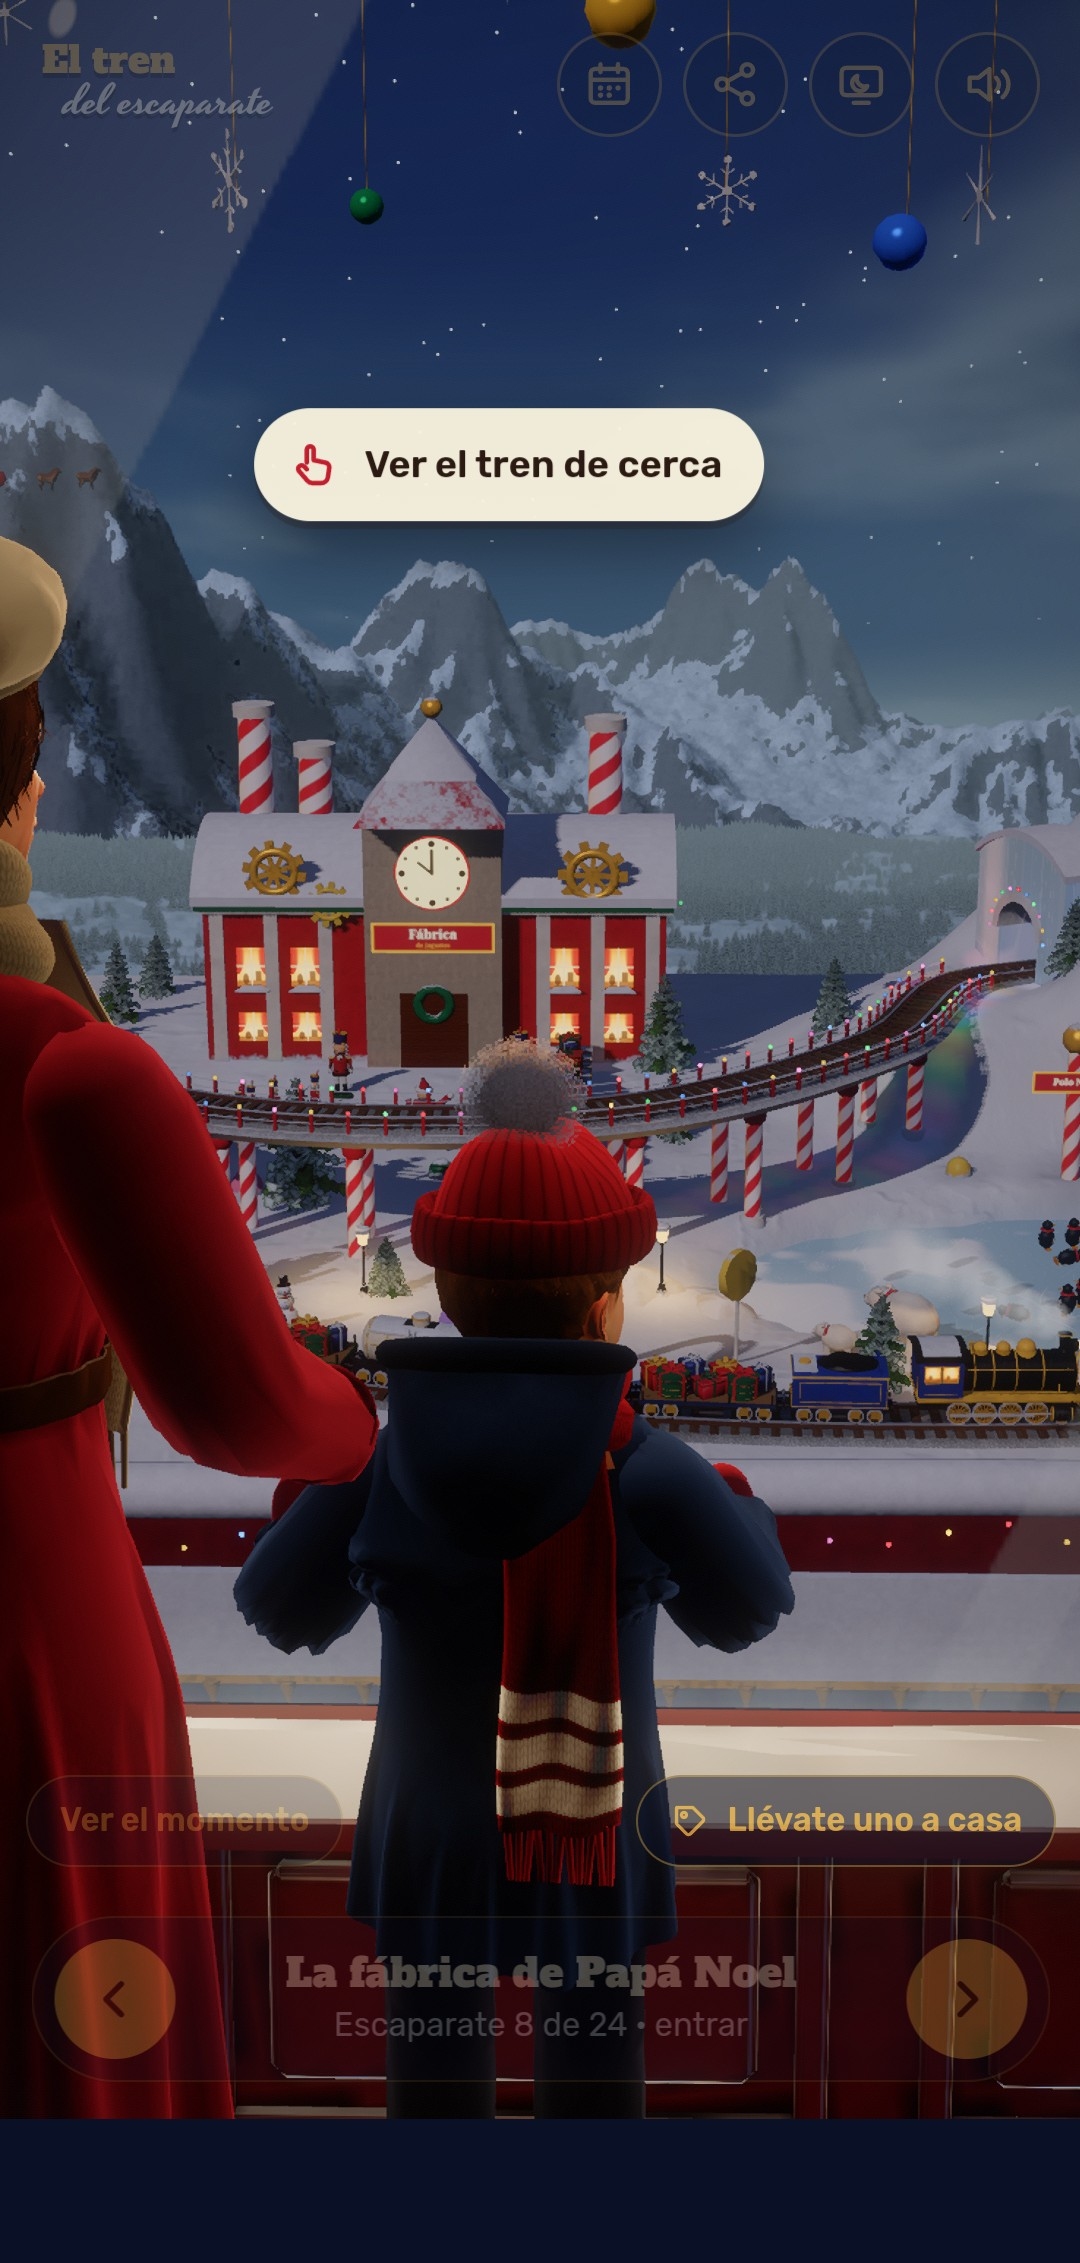
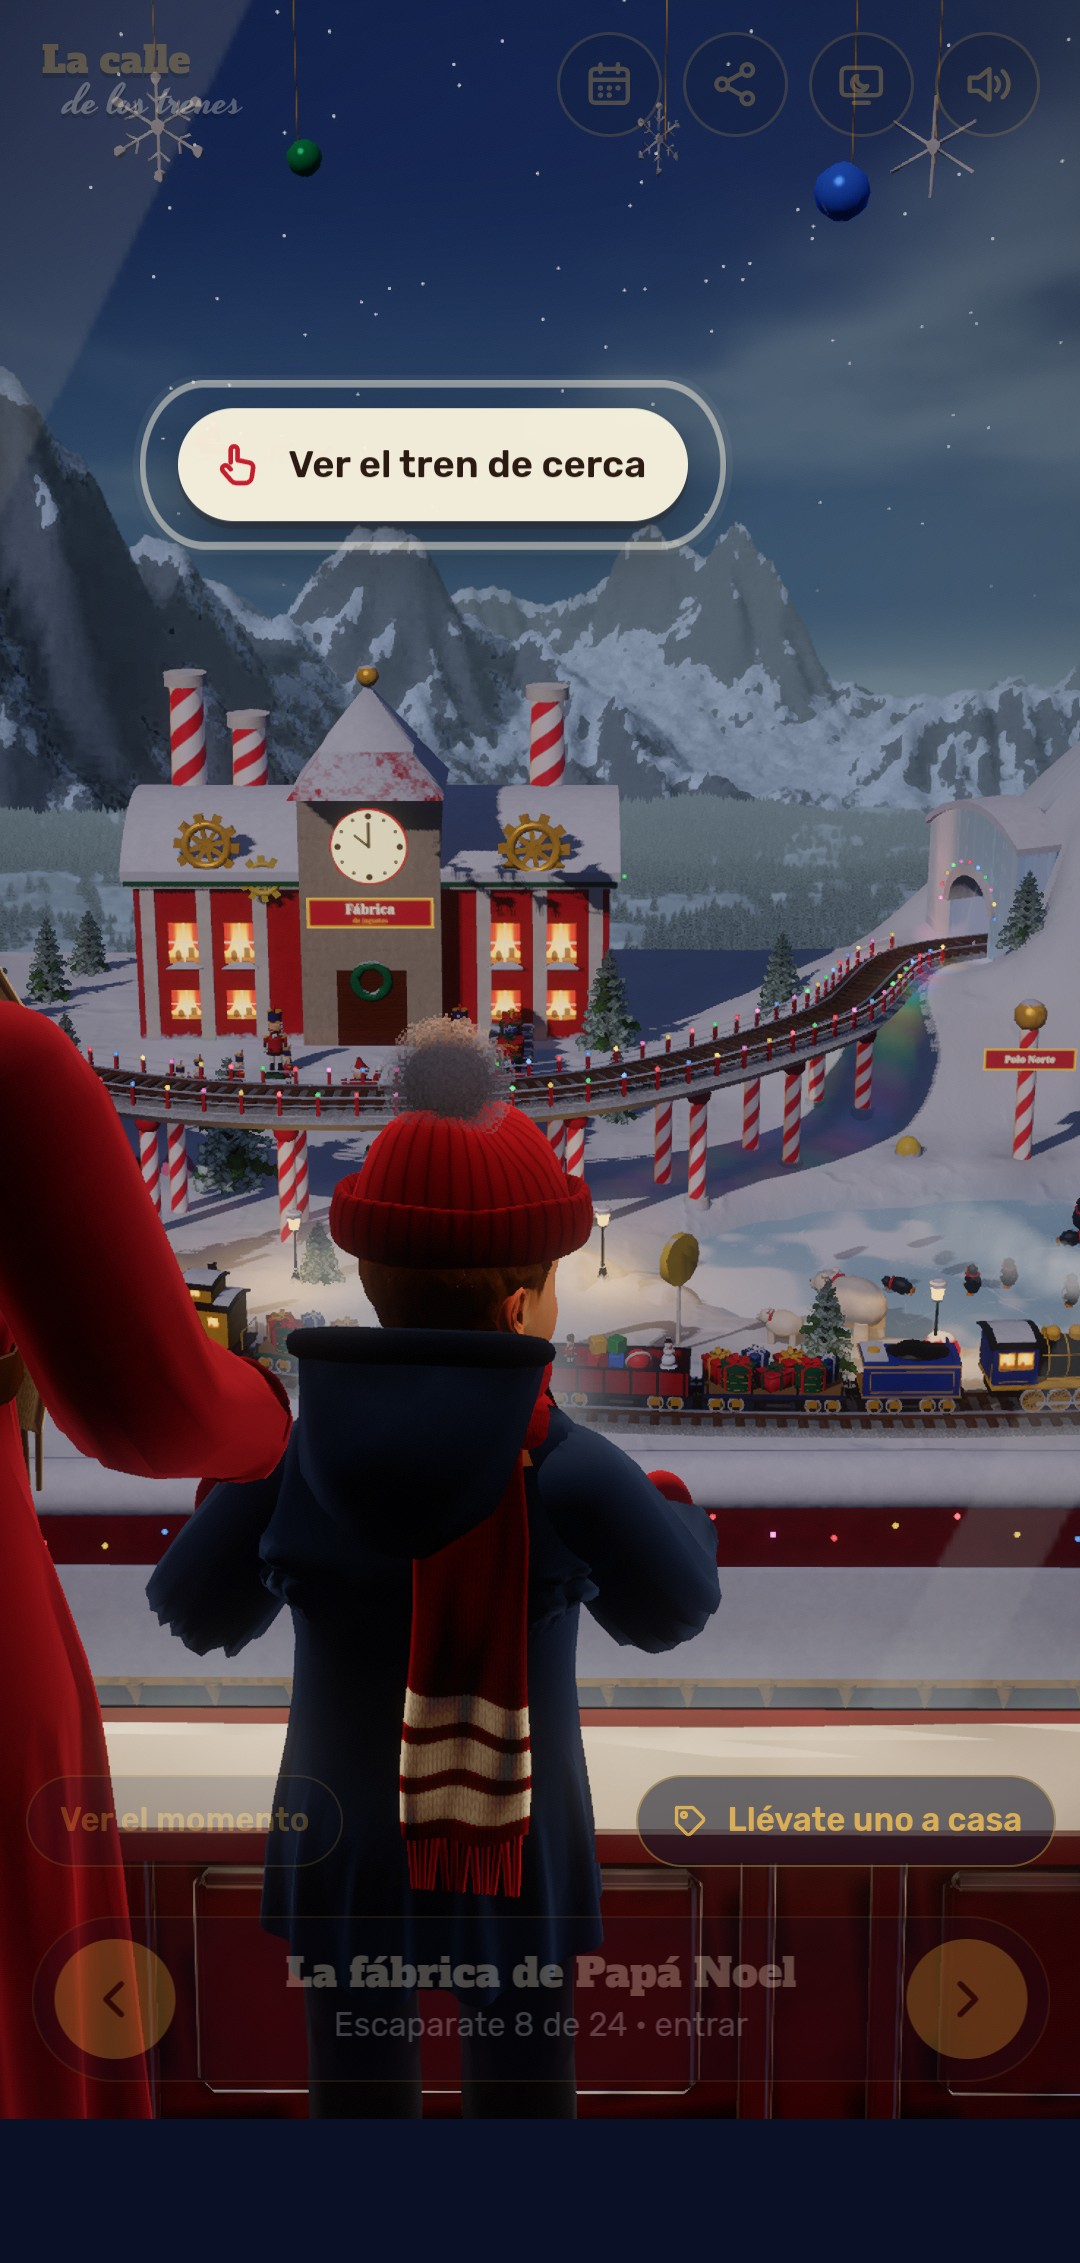
Nombre nuevo: La calle de los trenes
Título, rótulo, etiquetas para compartir e imagen de WhatsApp con el nombre que
eligió Jon. «Trenes de Navidad» va en la descripción y en la frase al compartir.
Capturas de la web personal rehechas con el título nuevo.

Pruebas: esc.py 92/92, esc.test.mjs OK; portada revisada en el emulador Android.

diff --git a/src/escaparates.js b/src/escaparates.js
@@ -1,4 +1,4 @@
-/* El tren del escaparate: un calendario de Adviento. Un niño pasea de la mano de su madre por una calle nevada y se para a
+/* La calle de los trenes: un calendario de Adviento. Un niño pasea de la mano de su madre por una calle nevada y se para a
    mirar los trenes de los escaparates: uno por día, y en cada uno una escena de la historia (esc-escenas.js). El paseo va solo y la cámara va detrás del niño. Al pinchar un escaparate se entra en él y se recorre con la
    cámara de mapa (esc-vista.js). Dos escenas con la misma cámara: la calle y lo que hay dentro de los escaparates, con su
    propia luz (ahí van también el cristal y la nieve que cae). Sin servidor: las marcas salen de esc-marcas.js. */
@@ -298,7 +298,7 @@ function escena(id) {hideCard(); E.st = 'escena'; E.t = 0; E.manual = false; E.a
 /* volver a ver la escena de un escaparate ya abierto */
 function verEscena(n = E.n) {if (E.st !== 'mira' || n >= AB()) return; dip(() => {E.dir = 1; madre.g.position.set(WX(n) - 46, 0, ZM); nino.g.position.set(WX(n) - 31, 0, ZN); madre.yaw = nino.yaw = 0; detras(tG, cam.p, cam.l); escena(n + 1)})}
 $('bSaltar').onclick = () => dip(() => ESCN.fin()); $('bEsc').onclick = () => {au(); verEscena()};
-$('finX').onclick = () => $('fin').classList.remove('on'); $('finGo').onclick = async () => {const text = 'Acuérdate de cuando íbamos a ver los escaparates. Te llamo ahora.'; if (navigator.share) try {await navigator.share({title: 'El tren del escaparate', text, url: url()}); return} catch (e) {if (e && e.name === 'AbortError') return} try {await navigator.clipboard.writeText(`${text} ${url()}`); toast('Enlace copiado: mándaselo')} catch (e) {toast('No se ha podido copiar el enlace')}};
+$('finX').onclick = () => $('fin').classList.remove('on'); $('finGo').onclick = async () => {const text = 'Acuérdate de cuando íbamos a ver los escaparates. Te llamo ahora.'; if (navigator.share) try {await navigator.share({title: 'La calle de los trenes', text, url: url()}); return} catch (e) {if (e && e.name === 'AbortError') return} try {await navigator.clipboard.writeText(`${text} ${url()}`); toast('Enlace copiado: mándaselo')} catch (e) {toast('No se ha podido copiar el enlace')}};
 
 /* ================= entrar en un escaparate ================= */
 let dipT = 0; function dip(fn, ms = 210) {if (FAST) {fn(); return} const el = $('dip'); el.classList.add('on'); clearTimeout(dipT); dipT = setTimeout(() => {fn(); requestAnimationFrame(() => requestAnimationFrame(() => el.classList.remove('on')))}, ms)}
@@ -473,7 +473,7 @@ function escucha() {
   oO.T = m.T; oO.s = m.tren.s; oO.w = m.tren.w; oO.off = m.tren.off; oO.clase = m.tren.clase; oO.nivel = nv; if (st === 'dentro') {oI.copy(m.g.matrixWorld).invert(); oV.copy(camera.position).applyMatrix4(oI); oO.c[0] = oV.x; oO.c[1] = oV.y; oO.c[2] = oV.z; const e = camera.matrixWorld.elements; oO.d[0] = e[0]; oO.d[1] = e[2]} else {oO.c[0] = 0; oO.c[1] = 14; oO.c[2] = 56; oO.d[0] = 1; oO.d[1] = 0} oyeTren(oO);
 }
 const url = () => window.ADVX_ESC_URL || location.origin + location.pathname;
-$('bShare').onclick = async () => {const m = AB() ? `🚂 Día ${AB()} · «${DIAS[AB() - 1].momento}»\n` : '🚂 ', text = `${m}¿Te acuerdas de cuando te quedabas embobado mirando el tren de un escaparate?`; if (navigator.share) try {await navigator.share({title: 'El tren del escaparate', text, url: url()}); return} catch (e) {if (e && e.name === 'AbortError') return} try {await navigator.clipboard.writeText(url()); toast('Enlace copiado: pégalo donde quieras')} catch (e) {toast('No se ha podido copiar el enlace')}};
+$('bShare').onclick = async () => {const m = AB() ? `🚂 Día ${AB()} · «${DIAS[AB() - 1].momento}»\n` : '🚂 ', text = `${m}¿Te acuerdas de cuando te quedabas embobado mirando los trenes de Navidad de los escaparates?`; if (navigator.share) try {await navigator.share({title: 'La calle de los trenes', text, url: url()}); return} catch (e) {if (e && e.name === 'AbortError') return} try {await navigator.clipboard.writeText(url()); toast('Enlace copiado: pégalo donde quieras')} catch (e) {toast('No se ha podido copiar el enlace')}};
 const NAVK = {ArrowLeft: [-34, 0], ArrowRight: [34, 0], ArrowUp: [0, -34], ArrowDown: [0, 34], a: [-34, 0], d: [34, 0], w: [0, -34], s: [0, 34]};
 addEventListener('keydown', e => {
   if (E.st === 'escena') {if (e.key === 'Escape') $('bSaltar').click(); return}

diff --git a/escaparates.html b/escaparates.html
@@ -3,14 +3,14 @@
 <head>
 <meta charset="utf-8">
 <meta name="viewport" content="width=device-width,initial-scale=1,viewport-fit=cover">
-<title>El tren del escaparate</title>
-<meta name="description" content="Un niño pasea de la mano de su madre por una calle nevada y se queda embobado mirando los trenes de los escaparates. Acércate al cristal.">
+<title>La calle de los trenes</title>
+<meta name="description" content="Trenes de Navidad en los escaparates de una calle nevada: cada tarde de diciembre se enciende uno nuevo. Un niño pasea de la mano de su madre y se queda embobado mirándolos. Acércate al cristal.">
 <meta name="theme-color" content="#0a1026">
 <meta property="og:type" content="website">
 <meta property="og:locale" content="es_ES">
-<meta property="og:site_name" content="El tren del escaparate">
-<meta property="og:title" content="El tren del escaparate">
-<meta property="og:description" content="¿Te acuerdas de cuando te quedabas embobado mirando pasar el tren detrás de un cristal? Cada tarde de diciembre se enciende un escaparate nuevo.">
+<meta property="og:site_name" content="La calle de los trenes">
+<meta property="og:title" content="La calle de los trenes">
+<meta property="og:description" content="Trenes de Navidad en los escaparates: cada tarde de diciembre se enciende uno nuevo. ¿Te acuerdas de cuando te quedabas embobado mirándolos?">
 <meta property="og:url" content="">
 <meta property="og:image" content="og-escaparates.jpg">
 <meta property="og:image:width" content="1200">
@@ -33,7 +33,7 @@
 <p id="texto" role="status"></p>
 
 <header class="top hud">
-  <div class="brand">El tren <span>del escaparate</span></div>
+  <div class="brand">La calle <span>de los trenes</span></div>
   <div class="tools">
     <button class="tb" id="bDias" aria-label="Calendario" aria-haspopup="dialog" aria-controls="diSheet" title="Calendario (L)"><svg viewBox="0 0 24 24" aria-hidden="true"><rect x="3.5" y="5" width="17" height="15.5" rx="2"/><path d="M3.5 10h17M8 2.8v3.7M16 2.8v3.7"/><path class="pt" d="M8 13.7h.01M12 13.7h.01M16 13.7h.01M8 17h.01M12 17h.01"/></svg></button>
     <button class="tb" id="bShare" aria-label="Compartir" title="Compartir"><svg viewBox="0 0 24 24" aria-hidden="true"><circle cx="6" cy="12" r="2.6"/><circle cx="17.5" cy="5.5" r="2.6"/><circle cx="17.5" cy="18.5" r="2.6"/><path d="M8.3 10.7l6.900-3.900M8.300 13.300l6.900 3.900"/></svg></button>
@@ -98,7 +98,7 @@
     <h2 id="adTtl">Tu marca en el escaparate</h2>
     <div class="seg" role="tablist" aria-label="Dónde">
       <button type="button" role="tab" id="tabRot" aria-selected="true">El rótulo<small>el letrero de la tienda</small></button>
-      <button type="button" role="tab" id="tabVag" aria-selected="false">Un vagón<small>del tren del escaparate</small></button>
+      <button type="button" role="tab" id="tabVag" aria-selected="false">Un vagón<small>del tren de un escaparate</small></button>
     </div>
     <p class="lead" id="adLead"></p>
     <canvas id="adPrev" width="1024" height="352" role="img" aria-label="Vista previa"></canvas>
@@ -147,7 +147,7 @@
 
 <section id="intro" class="intro" aria-labelledby="iTtl">
   <div class="in">
-    <h1 id="iTtl">El tren <span>del escaparate</span></h1>
+    <h1 id="iTtl">La calle <span>de los trenes</span></h1>
     <p>¿Te acuerdas de cuando te quedabas embobado <br>mirando pasar el tren detrás de un cristal?</p>
     <button id="go" class="mano" type="button" disabled>Preparando la calle…</button>
     <button id="iTodos" type="button">Modo pruebas: ver todos los días</button>

diff --git a/src/escaparates.css b/src/escaparates.css
@@ -1,4 +1,4 @@
-/* El tren del escaparate: interfaz mínima sobre la calle nevada. Misma paleta que el resto (papel crema, rojo, oro). */
+/* La calle de los trenes: interfaz mínima sobre la calle nevada. Misma paleta que el resto (papel crema, rojo, oro). */
 :root{color-scheme:dark;--night:#0a1026;--paper:#f1e6cc;--ink:#2b1a12;--ink2:#6d5642;--cream:#fbf3df;--red:#c41e2e;--red2:#8e1220;--green:#1b5a40;--gold:#e0ad45;--gold2:#a8771f;
   --ease-out:cubic-bezier(.23,1,.32,1);--safe-t:env(safe-area-inset-top,0px);--safe-b:env(safe-area-inset-bottom,0px)}
 *{box-sizing:border-box;min-width:0}

diff --git a/scripts/clips.py b/scripts/clips.py
@@ -60,7 +60,7 @@ async def main():
         b = await p.chromium.launch(args=chromium_args(True)); ctx = await b.new_context(viewport={'width': 540, 'height': 960}, device_scale_factor=2); pg = await ctx.new_page()
         await pg.goto(f'http://127.0.0.1:8840/escaparates.html?dia={DIAS[0]}', wait_until='commit'); await pg.wait_for_function('window.__esc&&__esc.listo', timeout=120000)
         await pg.add_style_tag(content=CSS)
-        await pg.evaluate("window.__noAdapt=true;document.body.insertAdjacentHTML('beforeend','<div id=rot></div><div id=cie><div><b>El tren</b><i>del escaparate</i><span></span></div></div>');__esc.empezar();__esc.hold(true)")
+        await pg.evaluate("window.__noAdapt=true;document.body.insertAdjacentHTML('beforeend','<div id=rot></div><div id=cie><div><b>La calle</b><i>de los trenes</i><span></span></div></div>');__esc.empezar();__esc.hold(true)")
         for k, d in enumerate(DIAS):
             await pg.evaluate(f'__esc.ponDia({d})'); await pg.wait_for_timeout(1400)
             await pg.evaluate("(()=>{for(let i=0;i<600&&__esc.st==='paseo'&&Math.abs(__esc.E.x-__esc.n*340)>80;i++)__esc.step(1/30)})()")

diff --git a/README.md b/README.md
@@ -36,9 +36,9 @@ El **silbato** acelera el tren unos segundos. Si cierras la página, al volver r
 
 La partida se guarda en `localStorage` (`advx-idle`). La economía está en `src/idle-eco.js`, y `node tests/idle-balance.mjs` simula a un jugador para ver el ritmo.
 
-## El tren del escaparate (`escaparates.html`)
+## La calle de los trenes (`escaparates.html`)
 
-`http://localhost:5173/escaparates.html` es el enfoque actual: un **calendario de Adviento** sin servidor ni base de datos (el nombre es provisional). Un niño pasea de la mano de su madre por una calle nevada de **24 escaparates, uno por día**, con un circuito de tren distinto en cada uno.
+`http://localhost:5173/escaparates.html` es el enfoque actual: un **calendario de Adviento** sin servidor ni base de datos. Un niño pasea de la mano de su madre por una calle nevada de **24 escaparates, uno por día**, con un circuito de tren distinto en cada uno.
 
 - **Cada día a las 18:00 se enciende uno.** Los que faltan están tapados con papel de embalar y su fecha; el de mañana tiene un agujero para asomarse. Los ya encendidos se quedan abiertos hasta el 10 de enero: puedes volver a cualquiera, entrar en su circuito y repetir su escena. El botón del calendario (o la tecla L) te lleva directo al que elijas.
 - **Un momento cada día**: en cada escaparate, una escena sin palabras de 6–15 segundos que se entiende sola (la nariz en el cristal, una bola de nieve, la foto que sale mal…). El 24 se cierra con el niño ya mayor. Están en `src/esc-escenas.js`.
@@ -118,7 +118,7 @@ Cómo funciona: el navegador lee `runs` directamente (solo columnas públicas) y
 
 La web sigue siendo estática. `scripts/build.mjs` solo copia los archivos a `dist/` y genera `dist/config.js` con las variables de entorno. `vercel.json` ya lo configura todo: build, carpeta de salida y caché de `m/` una semana.
 
-Publicada en https://tren-navidad.vercel.app/. Al desplegar, la portada es **el tren del escaparate** (`escaparates.html` se copia como `index.html`, y `/escaparates.html` redirige a `/`) y el juego de carreras pasa a `/adviento.html`. En local todo sigue con sus nombres de siempre.
+Publicada en https://tren-navidad.vercel.app/. Al desplegar, la portada es **La calle de los trenes** (`escaparates.html` se copia como `index.html`, y `/escaparates.html` redirige a `/`) y el juego de carreras pasa a `/adviento.html`. En local todo sigue con sus nombres de siempre.
 
 1. En [vercel.com](https://vercel.com), *Add New → Project* e importa `jonmunoa/Advent-train` (framework: *Other*; el resto lo lee de `vercel.json`).
 2. *Settings → Environment Variables* (Production y Preview):

diff --git a/CLAUDE.md b/CLAUDE.md
@@ -48,7 +48,7 @@ src/tren-map.js            maqueta alpina sin DOM: relieve (H0), etapas de vía 
 src/tren-eco.js            calendario (qué trae cada día), agujas, marcas y partida, sin DOM ni red
 src/tren-marcas.js         lo que Jon edita a mano: contacto, precios y qué marca va en qué vagón y qué días
 src/tren.css               estilos propios del tren de Navidad (se carga tras idle.css)
-escaparates.html, src/escaparates.js   «el tren del escaparate» (nombre provisional): calendario, calle, paseo, cámara, HUD y marcas
+escaparates.html, src/escaparates.js   «La calle de los trenes»: calendario, calle, paseo, cámara, HUD y marcas
 src/esc-historia.js        calendario sin DOM: qué se enciende cada día y a qué hora, nombre de cada momento y vista previa
 src/esc-escenas.js         los momentos: una escena corta por día (generadores)
 src/esc-vias.js            los 24 circuitos sin DOM: relieve, vía con altura, túneles, puentes y suelo
@@ -165,7 +165,10 @@ Quinta vuelta (23 de noviembre de 2026): **sin servidor y sin base de datos**, p
 
 Antialiasing (idle y tren): MSAA ×4 en el `EffectComposer` también en el móvil y resolución entre 1× y 2× (nunca por debajo de 1×). Si va justo, `adapt` baja hasta 1,25×, luego quita sombras (solo si sigue lento varios segundos), luego baja a 1× y por último quita el bloom; los tirones de más de 0,2 s no cuentan.
 
-## El tren del escaparate (`escaparates.html`)
+## La calle de los trenes (`escaparates.html`)
+
+Nombre elegido por Jon el 26 de noviembre de 2026 (antes, «el tren del escaparate»; «Embobados» no le gustó). «Trenes de Navidad» va en la descripción y en la frase para compartir.
+
 
 Enfoque actual (23–24 de noviembre de 2026, a petición de Jon). **Los usuarios no hacen nada**: un niño pasea de la mano de su madre por una calle nevada con tiendas y se queda embobado con los trenes de los escaparates. Busca llegar al adulto que hacía eso de niño, que vuelva cada día y que lo comparta. Sin servidor, sin base de datos, sin gente simulada y sin preguntar de dónde es nadie. La cámara va detrás del niño y al pinchar un escaparate se entra en él. `kit.js` y `musica.js` son copias limpias de `tren.js`; toca retirar `tren.html` e `idle.html`.
 
